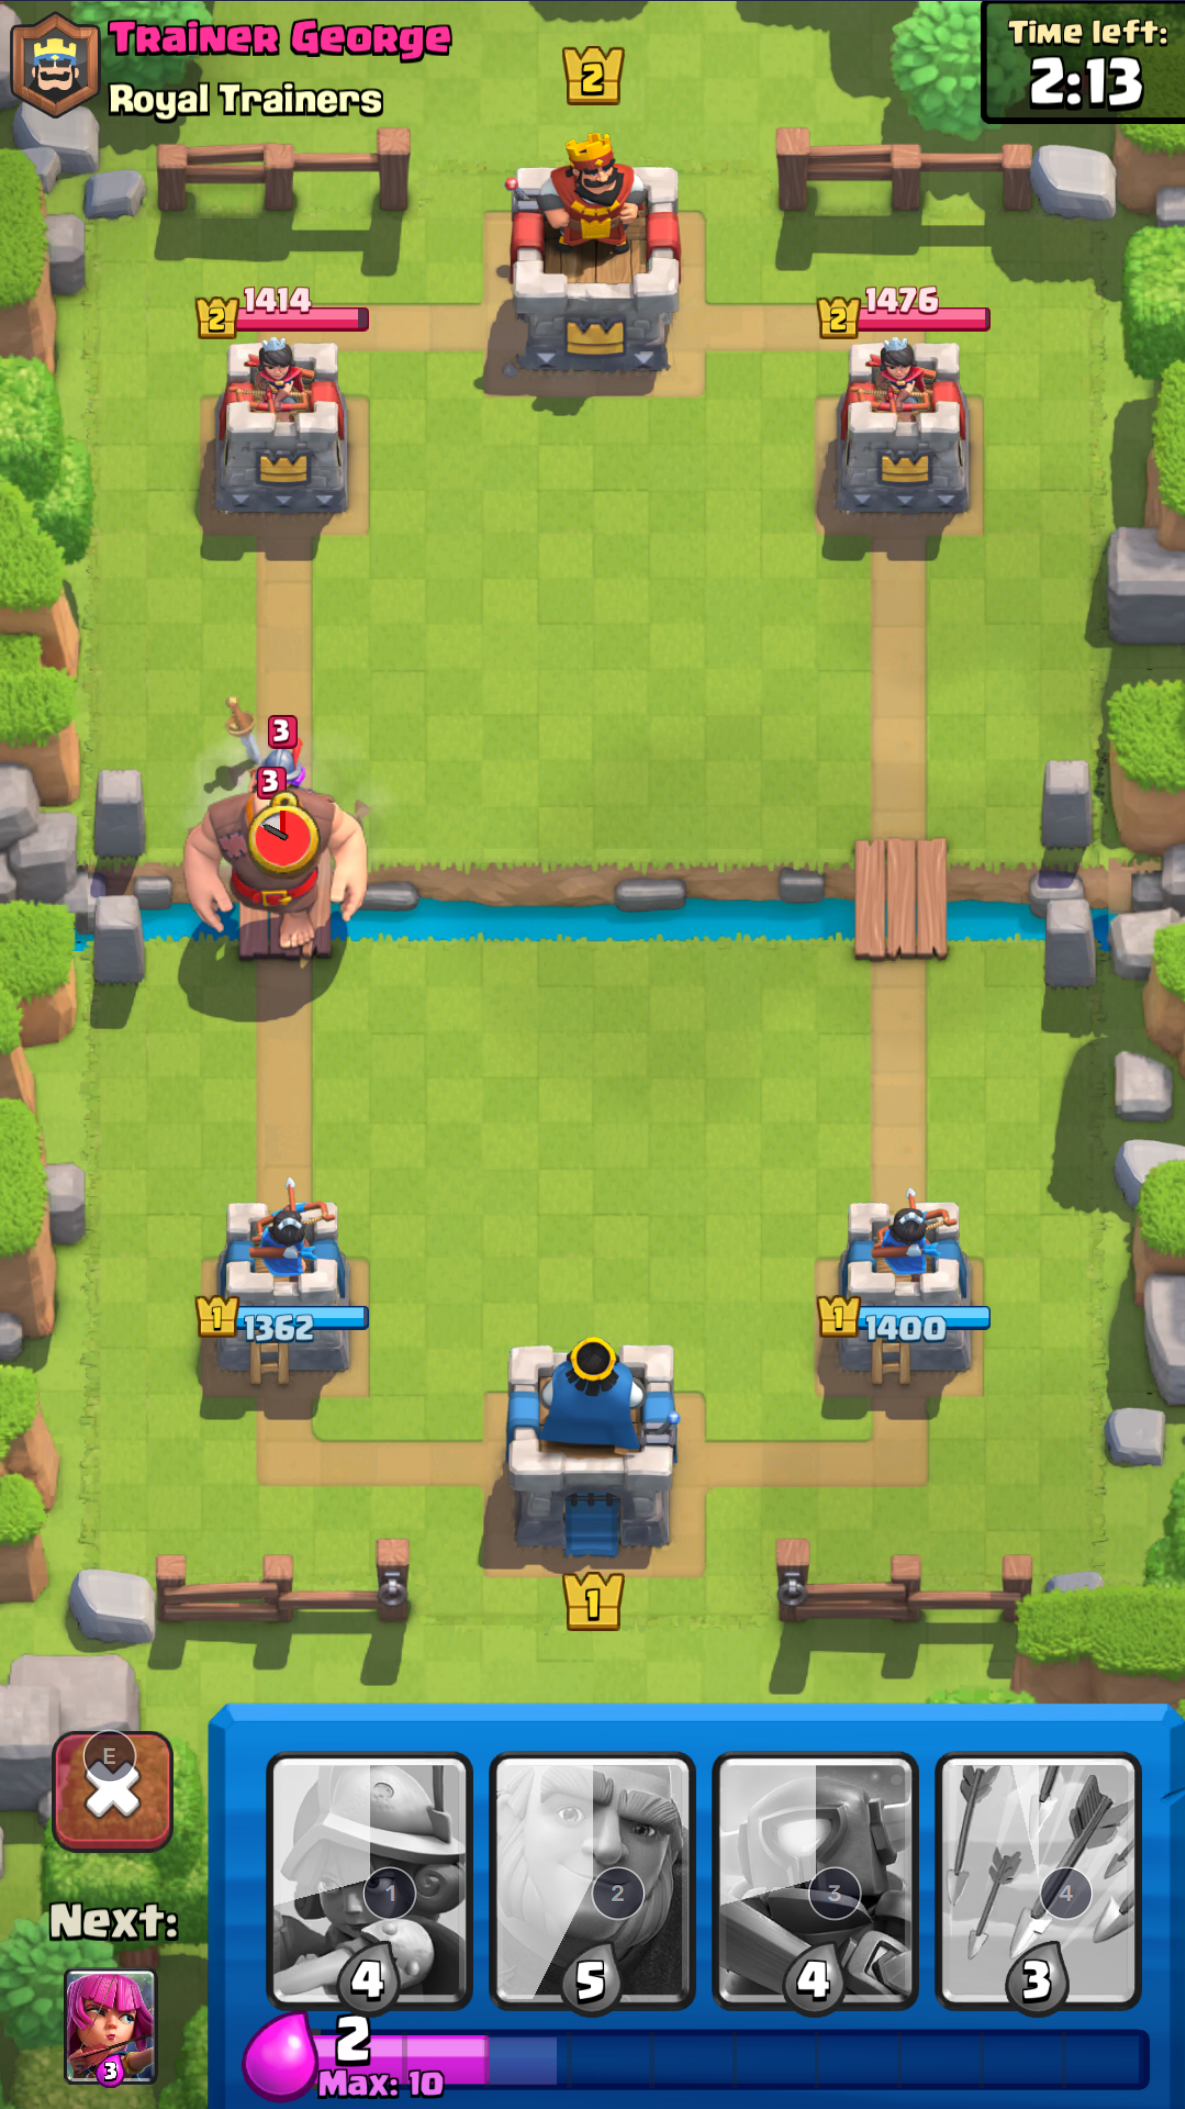
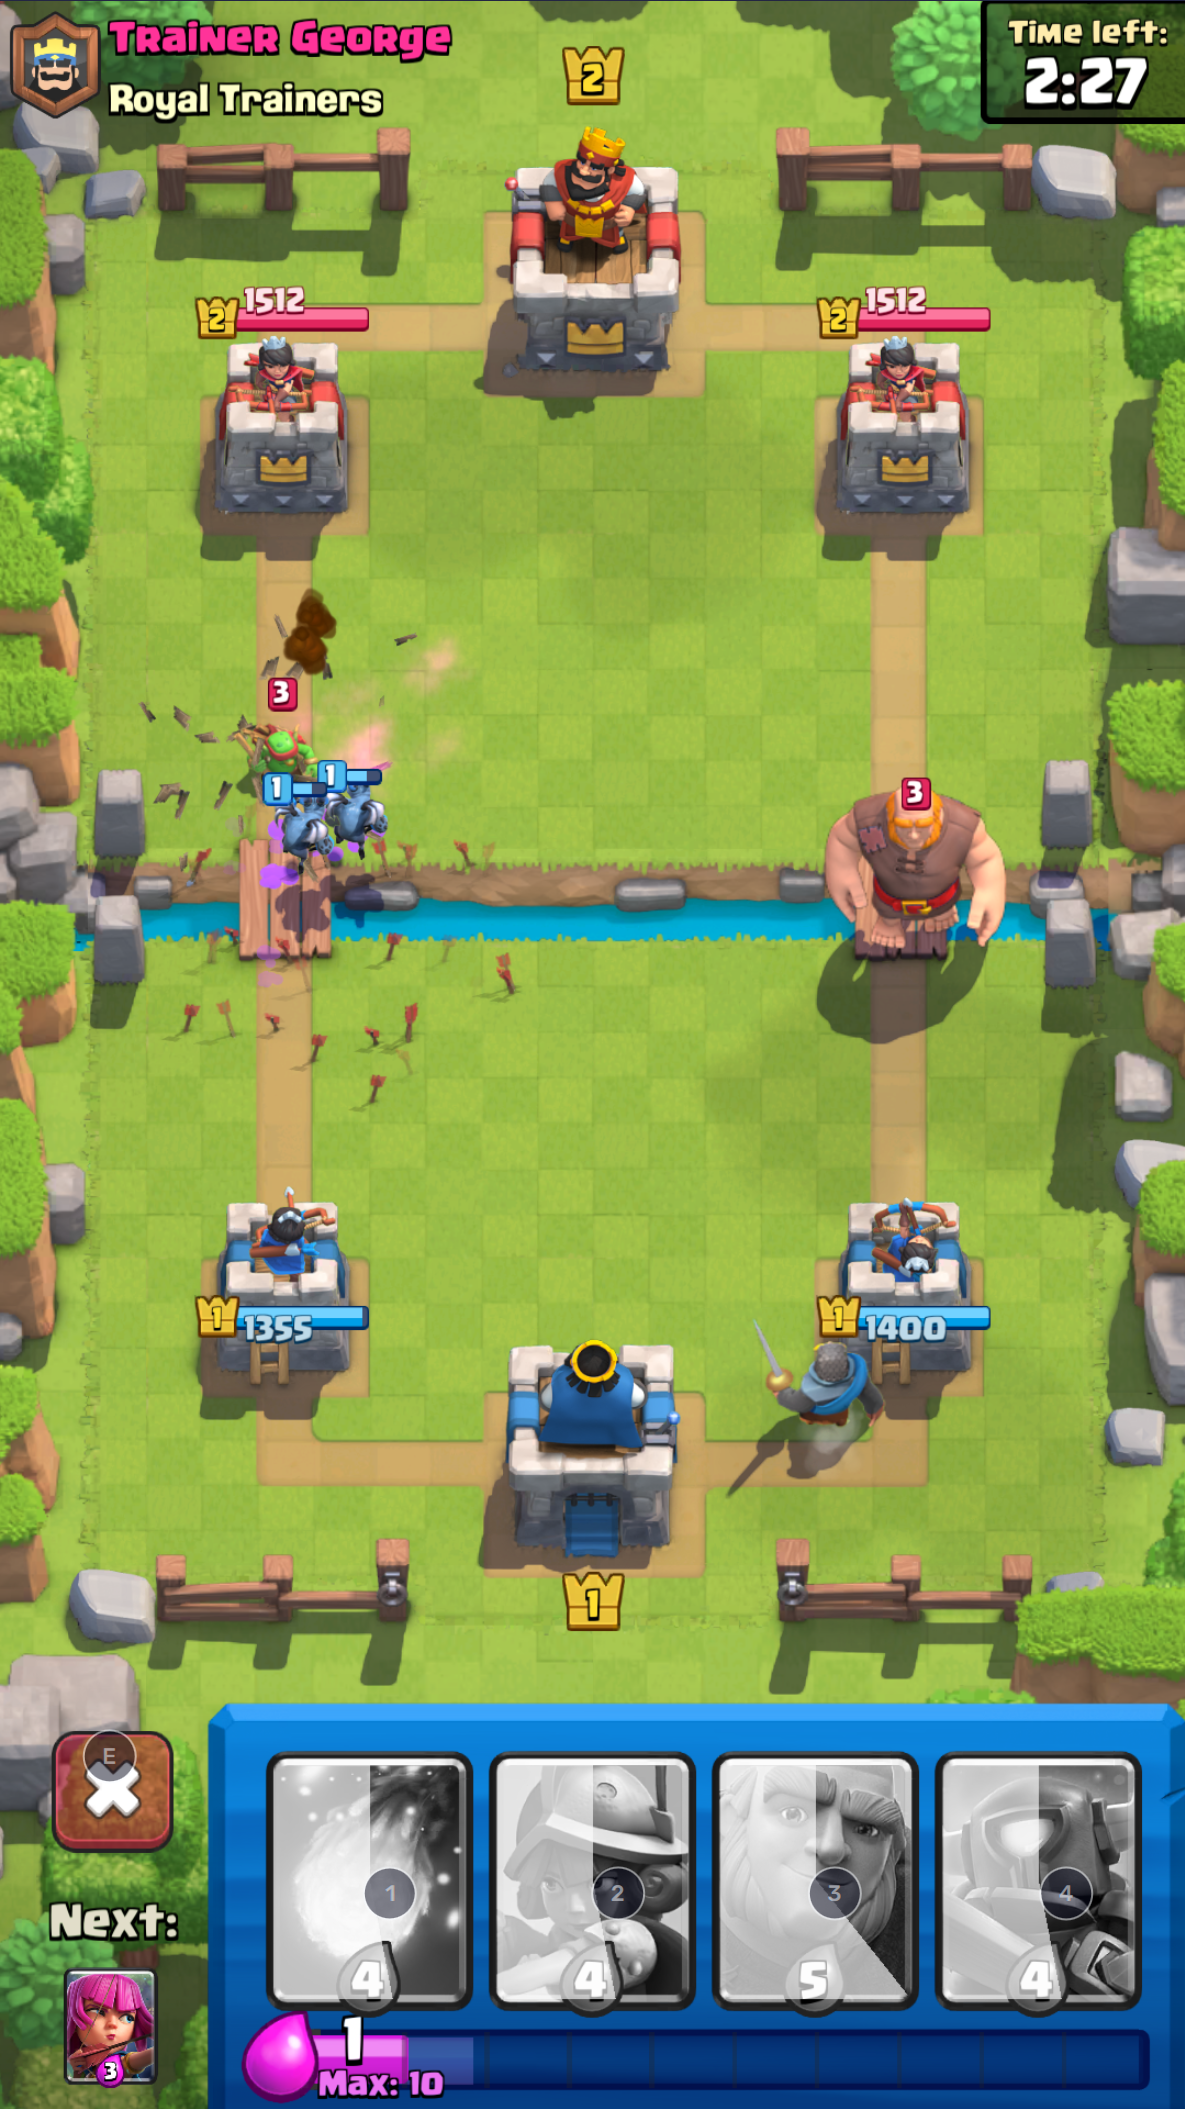
Elixir Template Match
Template match to find the bottom, now need to decide whether to use OCR with offset or to use pixel colors

diff --git a/info_extractor.py b/info_extractor.py
@@ -4,7 +4,8 @@
 import os
 from PIL import Image, ImageOps
 import pytesseract
-
+import cv2
+import numpy as np
 
 def extract():
     """Puts together information extracted by OCR in the game"""
@@ -29,7 +30,7 @@ def extract():
     # Cards on screen, oponent/user
 
     # User tower information
-
+    get_elixir()
     # Cards in hand w/their information
 
 def updateImageSize(img):
@@ -57,7 +58,6 @@ def ocr_int_from_subimage(sub_img):
     # invert
     inv = ImageOps.invert(bw.convert("L")).convert("1")
     inv.show()
-    print(inv.size)
 
     # OCR with single-line PSM and digit whitelist
     # comment this out if its not on windows
@@ -72,16 +72,37 @@ def ocr_int_from_subimage(sub_img):
     except ValueError:
         return None
 
-def get_time(image):
-    """get Image from top right, uses OCR for the time in seconds"""
+def get_elixir():
+    """get a cropped image of the elixir with open CV template matching"""
 
-    # Extract Top Right
+    # Load images
+    full_img = Image.open("data/TestCaptures/testscreen.png").convert("L")
+    template = Image.open("data/template.png").convert("L")
 
-    # Run OCR
-    time_string = pytesseract.image_to_string(image)
-    minutes, seconds = map(int, time_string.split(":"))
+    full_array = np.array(full_img)
+    tempate_array = np.array(template)
 
-    return minutes * 60 + seconds
+    # Match template
+    result = cv2.matchTemplate(full_array, tempate_array, cv2.TM_CCOEFF_NORMED)
+    _, max_val, _, max_loc = cv2.minMaxLoc(result)
+
+    print(f"Match confidence: {max_val:.3f} at {max_loc}")
+
+    x, y = max_loc
+
+    # Offset to where number is expected
+    offset_x = 90
+    offset_y = 0
+    box_width = 80
+    box_height = 75
+
+    # Crop number region
+    number_box = (x + offset_x, y + offset_y, x + offset_x + box_width, y + offset_y + box_height)
+    sub_img = Image.open("data/TestCaptures/testscreen.png").crop(number_box)
+    sub_img.show()
+    # run OCR
+    print(ocr_int_from_subimage(sub_img))
+
 
 def get_tower(image):
     """
